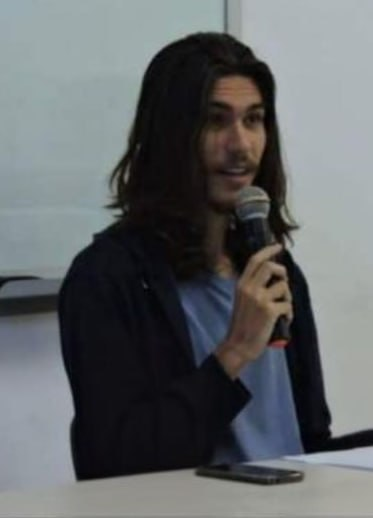
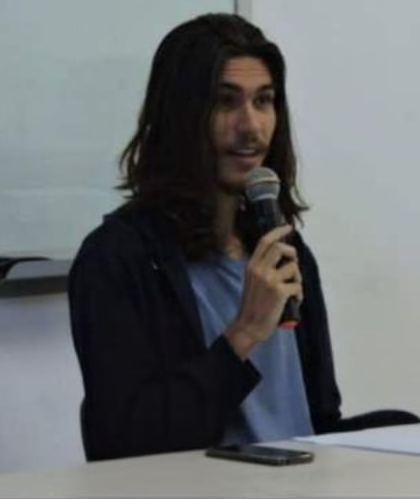
att detalhes

Changed region(s): [[0.0, 0.0, 1.0, 0.9619]]

diff --git a/pt/index.html b/pt/index.html
@@ -1,4 +1,5 @@
 <!doctype html>
+
 <html lang="pt-BR">
 <head>
   <meta charset="utf-8">
@@ -32,82 +33,111 @@
       </div>
     </header>
 
-    <main id="inicio">
-      <section class="hero" aria-labelledby="nome">
-        <img class="portrait" src="../assets/profile.jpg" alt="Leonardo Thibau apresentando em evento acadêmico">
-        <p class="eyebrow">SOCIOLOGIA · MÉTODOS DIGITAIS · UFBA</p>
-        <h1 id="nome">Leonardo Thibau</h1>
-        <p class="subtitle">Mestrando em Sociologia · pesquisador em Humanidades Digitais</p>
-        <div class="social" aria-label="Links profissionais">
-          <a href="https://lattes.cnpq.br/3404425891739700" target="_blank" rel="noopener">Lattes <span>↗</span></a>
-          <a href="https://github.com/l-thibau" target="_blank" rel="noopener">GitHub <span>↗</span></a>
-          <a href="https://l-thibau.quarto.pub/" target="_blank" rel="noopener">Slides <span>↗</span></a>
-          <a href="mailto:leonardo_thibau@hotmail.com">E-mail <span>↗</span></a>
-        </div>
-      </section>
 
-      <section id="sobre" class="section split">
-        <div><p class="section-label">01 — SOBRE</p><h2>Pesquisa sociológica orientada por dados, contexto e rigor metodológico.</h2></div>
-        <div class="prose">
-          <p>Sou mestrando em Sociologia na Universidade Federal da Bahia (UFBA), sob orientação do Prof. Leonardo Fernandes Nascimento. Minha dissertação investiga a machosfera brasileira a partir de um corpus longitudinal de fóruns masculinistas.</p>
-          <p>Minha trajetória combina Ciências Sociais, Humanidades e métodos digitais. Atuo no Laboratório de Humanidades Digitais da UFBA (LABHDUFBA), com experiência em construção e preservação de corpus, análise de dados textuais e de interação, visualização e infraestrutura de pesquisa.</p>
-          <dl class="facts">
-            <div><dt>Formação</dt><dd>Mestrado em andamento em Ciências Sociais · UFBA</dd></div>
-            <div><dt>Graduação</dt><dd>Ciências Sociais · UFBA; Bacharelado Interdisciplinar em Humanidades</dd></div>
-            <div><dt>Idiomas</dt><dd>Português e inglês</dd></div>
-          </dl>
-        </div>
-      </section>
+<main id="inicio">
+  <section class="hero" aria-labelledby="nome">
+    <img class="portrait" src="../assets/profile.jpg" alt="Leonardo Thibau apresentando em evento acadêmico">
+    <p class="eyebrow">SOCIOLOGIA · MÉTODOS DIGITAIS · UFBA</p>
+    <h1 id="nome">Leonardo Thibau</h1>
+    <p class="subtitle">Mestrando em Sociologia · pesquisador em Humanidades Digitais</p>
+    <div class="social" aria-label="Links profissionais">
+      <a href="https://lattes.cnpq.br/3404425891739700" target="_blank" rel="noopener">Lattes <span>↗</span></a>
+      <a href="https://github.com/l-thibau" target="_blank" rel="noopener">GitHub <span>↗</span></a>
+      <a href="https://l-thibau.quarto.pub/" target="_blank" rel="noopener">Slides <span>↗</span></a>
+      <a href="mailto:leonardo_thibau@hotmail.com">E-mail <span>↗</span></a>
+    </div>
+  </section>
 
-      <section id="pesquisa" class="section">
-        <p class="section-label">02 — PESQUISA</p>
-        <h2>Linhas de investigação</h2>
-        <div class="cards">
-          <article><span>01</span><h3>Machosfera e masculinidades digitais</h3><p>Estudo longitudinal de comunidades masculinistas, seus repertórios, formas de pertencimento, critérios de autoridade e transformações discursivas.</p></article>
-          <article><span>02</span><h3>Desinformação, política e plataformas</h3><p>Pesquisa sobre ecossistemas digitais, extremismo, circulação de narrativas e os vínculos entre infraestrutura, mediação e vida pública.</p></article>
-          <article><span>03</span><h3>Métodos digitais e conhecimento</h3><p>Construção de corpus, web scraping, análise computacional de texto, redes, visualização e práticas de pesquisa reprodutíveis.</p></article>
-        </div>
-      </section>
+  <section id="sobre" class="section split">
+    <div><p class="section-label">01 — SOBRE</p><h2>Pesquisa sociológica orientada por dados, contexto e rigor metodológico.</h2></div>
+    <div class="prose">
+      <p>Sou mestrando em Sociologia na Universidade Federal da Bahia (UFBA). Minha dissertação investiga a machosfera brasileira a partir de um corpus longitudinal de fóruns públicos masculinistas.</p>
+      <p>Minha trajetória combina Ciências Sociais, Humanidades e métodos digitais. Atuo no Laboratório de Humanidades Digitais da UFBA (LABHDUFBA), com experiência em construção e preservação de corpus, análise de dados textuais e de interação, visualização e infraestrutura de pesquisa.</p>
+      <dl class="facts">
+        <div><dt>Formação</dt><dd>Mestrado em andamento em Ciências Sociais · UFBA</dd></div>
+        <div><dt>Graduação</dt><dd>Ciências Sociais · UFBA; Bacharelado Interdisciplinar em Humanidades</dd></div>
+        <div><dt>Idiomas</dt><dd>Português e inglês</dd></div>
+      </dl>
+    </div>
+  </section>
 
-      <section class="section projects">
-        <p class="section-label">03 — PROJETOS E EXPERIÊNCIA</p>
-        <div class="project-list">
-          <article><p class="date">2025 — presente</p><div><h3>Redpills e a machosfera: o corpus digital do homem ressentido</h3><p>Dissertação de mestrado sobre a machosfera brasileira, articulando análise sociológica, corpus longitudinal e métodos computacionais.</p></div></article>
-          <article><p class="date">2023 — 2024</p><div><h3>Democracia digital: ecossistemas de desinformação no Telegram</h3><p>Pesquisa sobre grupos de extrema-direita, dinâmicas de usuários, links multiplataforma e análise socioantropológica de ambientes digitais.</p></div></article>
-          <article><p class="date">2024 — 2025</p><div><h3>LABHDUFBA · pesquisa e infraestrutura</h3><p>Atuação em Humanidades Digitais, pesquisa sobre desinformação em saúde e apoio à construção de ferramentas, sites e fluxos de dados.</p></div></article>
-        </div>
-      </section>
+  <section id="pesquisa" class="section">
+    <p class="section-label">02 — PESQUISA</p>
+    <h2>Linhas de investigação</h2>
+    <div class="cards">
+      <article><span>01</span><h3>Estudos de Gênero e Machosfera</h3><p>Estudo longitudinal de comunidades masculinistas, seus repertórios, formas de pertencimento, critérios de autoridade e transformações discursivas.</p></article>
+      <article><span>02</span><h3>Sociologia do conhecimento, mis/disinformation e Ciência Política</h3><p>Pesquisa sobre ecossistemas digitais, extremismo, circulação de narrativas e os vínculos entre infraestrutura, mediação e vida pública.</p></article>
+      <article><span>03</span><h3>STS e Métodos Digitais</h3><p>Construção de corpus, web scraping, análise computacional de texto, redes, visualização e práticas de pesquisa reprodutíveis, alinhadas ao pensamento crítico sociológico.</p></article>
+    </div>
+  </section>
 
-      <section id="producoes" class="section split">
-        <div><p class="section-label">04 — PRODUÇÕES</p><h2>Produções selecionadas</h2><p class="muted">Lista resumida a partir do Currículo Lattes público, atualizado em agosto de 2026.</p></div>
-        <div class="publications">
-          <article><p class="pub-meta">2026 · CASTAC Blog</p><h3>Cartographing the Brazilian Manosphere: Toponymic Aliases in a Public Forum</h3><p>MORAES, L. T. T.</p></article>
-          <article><p class="pub-meta">2025 · ANPOCS</p><h3>Visões computacionais da misoginia online: uso de IA para análise de imagens em chats do Telegram</h3><p>NOTHAFT, R. J.; NASCIMENTO, L. F.; MORAES, L. T. T.; WEDDERBURN, R. S. M.</p></article>
-          <article><p class="pub-meta">2025 · Congresso Brasileiro de Sociologia</p><h3>A machosfera no Brasil: uma análise multimodal da misoginia e radicalização no Telegram</h3><p>NASCIMENTO, L. F.; MOCELLIM, A. D.; MORAES, L. T. T.; BARRETO, T. B.</p></article>
-          <a class="text-link" href="https://lattes.cnpq.br/3404425891739700" target="_blank" rel="noopener">Ver currículo e produções completas no Lattes ↗</a>
-        </div>
-      </section>
+  <section class="section projects">
+    <p class="section-label">03 — PROJETOS E EXPERIÊNCIA</p>
+    <div class="project-list">
+      <article><p class="date">2025 — presente</p><div><h3>Redpills e a machosfera: o corpus digital do homem ressentido</h3><p>Dissertação de mestrado sobre a machosfera brasileira, articulando análise sociológica, corpus longitudinal e métodos computacionais.</p></div></article>
+      <article><p class="date">2023 — 2024</p><div><h3>Democracia digital: ecossistemas de desinformação no Telegram</h3><p>Pesquisa sobre grupos de extrema-direita, dinâmicas de usuários, ecossistema multiplataforma e análise socioantropológica de ambientes digitais.</p></div></article>
+      <article><p class="date">2024 — 2025</p><div><h3>Ecossistemas multiplataforma e ataques à integridade da informação em saúde: impactos, padrões de disseminação e estratégias de mitigação</h3><p>Atuação em Humanidades Digitais, com pesquisa sobre desinformação em saúde e apoio à construção de ferramentas, sites e análise de fluxos de dados.</p></div></article>
+    </div>
+  </section>
 
-      <section id="competencias" class="section">
-        <p class="section-label">05 — MÉTODOS E FERRAMENTAS</p>
-        <h2>Competências técnicas</h2>
-        <div class="skills">
-          <div><h3>Análise e dados</h3><p>R · análise de texto · análise de redes · web scraping · dados longitudinais · visualização</p></div>
-          <div><h3>Pesquisa reprodutível</h3><p>Markdown · Quarto · Zotero · documentação · preservação de corpus</p></div>
-          <div><h3>Infraestrutura e web</h3><p>Elasticsearch · Docker · HTML · Hugo · GitHub Pages · Visual Studio Code</p></div>
-        </div>
-        <p class="repository-note">Projetos e materiais técnicos: <a href="https://github.com/l-thibau" target="_blank" rel="noopener">github.com/l-thibau ↗</a></p>
-      </section>
+  <section id="producoes" class="section split">
+    <div>
+      <p class="section-label">04 — PRODUÇÕES</p>
+      <h2>Produções selecionadas</h2>
+      <p class="muted">Lista resumida a partir do Currículo Lattes público, atualizado em agosto de 2026.</p>
+    </div>
 
-      <section id="contato" class="section contact">
-        <p class="section-label">06 — CONTATO</p>
-        <h2>Colaborações, pesquisa e métodos digitais.</h2>
-        <p>Para contato acadêmico, oportunidades de pesquisa ou materiais de apresentação:</p>
-        <a class="email" href="mailto:leonardo_thibau@hotmail.com">leonardo_thibau@hotmail.com</a>
-      </section>
-    </main>
+    <div class="publications">
+      <article>
+        <p class="pub-meta">2026 · CASTAC Blog</p>
+        <h3>Cartographing the Brazilian Manosphere: Toponymic Aliases in a Public Forum</h3>
+        <p>MORAES, L. T. T.</p>
+        <a class="text-link" href="https://blog.castac.org/2026/06/brazilian-manosphere/" target="_blank" rel="noopener">Ver publicação ↗</a>
+      </article>
 
-    <footer><span>© 2026 Leonardo Thibau</span><span>Site estático · GitHub Pages</span><span><a href="https://creativecommons.org/licenses/by-nc/4.0/" target="_blank" rel="noopener">CC BY-NC 4.0 ↗</a></span></footer>
+      <article>
+        <p class="pub-meta">2025 · ANPOCS</p>
+        <h3>Visões computacionais da misoginia online: uso de IA para análise de imagens em chats do Telegram</h3>
+        <p>NOTHAFT, R. J.; NASCIMENTO, L. F.; MORAES, L. T. T.; WEDDERBURN, R. S.</p>
+      </article>
+
+      <article>
+        <p class="pub-meta">2025 · Congresso Brasileiro de Sociologia</p>
+        <h3>A machosfera no Brasil: uma análise multimodal da misoginia e radicalização no Telegram</h3>
+        <p>NASCIMENTO, L. F.; MOCELLIM, A. D.; MORAES, L. T. T.; BARRETO, T. B.</p>
+      </article>
+
+      <a class="text-link" href="https://lattes.cnpq.br/3404425891739700" target="_blank" rel="noopener">
+        Ver currículo e produções completas no Lattes ↗
+      </a>
+    </div>
+  </section>
+
+  <section id="competencias" class="section">
+    <p class="section-label">05 — MÉTODOS E FERRAMENTAS</p>
+    <h2>Competências técnicas</h2>
+    <div class="skills">
+      <div><h3>Análise e dados</h3><p>R · análise de texto · análise de redes · web scraping · dados longitudinais</p></div>
+      <div><h3>Métodos de Pesquisa</h3><p>Organização de pesquisa com uso de agentes de IA · LLMs · automação de fluxos de trabalho · pesquisa assistida por IA</p></div>
+      <div><h3>Infraestrutura e web</h3><p>Elasticsearch · ATLAS.TI · Docker · HTML · Visual Studio Code</p></div>
+    </div>
+    <p class="repository-note">Projetos e materiais técnicos: <a href="https://github.com/l-thibau" target="_blank" rel="noopener">github.com/l-thibau ↗</a></p>
+  </section>
+
+  <section id="contato" class="section contact">
+    <p class="section-label">06 — CONTATO</p>
+    <h2>Colaborações, pesquisa e métodos digitais.</h2>
+    <p>Para contato acadêmico, oportunidades de pesquisa ou materiais de apresentação:</p>
+    <a class="email" href="mailto:leonardo_thibau@hotmail.com">leonardo_thibau@hotmail.com</a>
+  </section>
+</main>
+
+<footer>
+  <span>© 2026 Leonardo Thibau</span>
+  <span>Site estático · GitHub Pages</span>
+  <span><a href="https://creativecommons.org/licenses/by-nc/4.0/" target="_blank" rel="noopener">CC BY-NC 4.0 ↗</a></span>
+</footer>
+
   </div>
 </body>
 </html>

diff --git a/styles.css b/styles.css
@@ -1,3 +1,3 @@
-:root{--ink:#141414;--paper:#f8f7f2;--card:#ffffff;--rule:#d8d6ce;--muted:#62615d;--accent:#9d2d24;--max:1120px}*{box-sizing:border-box}html{scroll-behavior:smooth}body{margin:0;background:var(--paper);color:var(--ink);font-family:Georgia,'Times New Roman',serif;font-size:18px;line-height:1.62}.shell{max-width:var(--max);margin:auto;padding:0 32px}.site-header{min-height:86px;border-bottom:1px solid var(--rule);display:flex;align-items:center;justify-content:space-between;gap:26px;font-family:ui-monospace,SFMono-Regular,Consolas,monospace;font-size:13px}.wordmark{color:var(--ink);text-decoration:none;font-weight:700;letter-spacing:-.03em;white-space:nowrap}.prompt{color:var(--accent);margin-right:7px}.cursor{display:inline-block;width:7px;height:15px;background:var(--accent);vertical-align:-2px;margin-left:5px;animation:blink 1.2s steps(1,end) infinite}@keyframes blink{50%{opacity:0}}nav{display:flex;gap:17px;flex-wrap:wrap;justify-content:flex-end}nav a,footer a,.text-link,.repository-note a{color:var(--ink);text-decoration:none;border-bottom:1px solid transparent}nav a:hover,footer a:hover,.text-link:hover,.repository-note a:hover{border-color:var(--accent);color:var(--accent)}.hero{text-align:center;padding:86px 0 96px;border-bottom:1px solid var(--rule)}.portrait{width:168px;height:168px;border-radius:50%;object-fit:cover;object-position:center top;filter:grayscale(100%) contrast(1.06);border:6px solid #eceae3;box-shadow:0 0 0 1px #c7c4ba}.eyebrow,.section-label,.pub-meta,.date{font-family:ui-monospace,SFMono-Regular,Consolas,monospace;font-size:12px;letter-spacing:.09em;color:var(--accent);font-weight:700}.hero h1{font-size:clamp(44px,7vw,74px);line-height:1.05;margin:22px 0 9px;letter-spacing:-.055em}.subtitle{color:var(--muted);margin:0;font-size:21px}.social{margin-top:25px;display:flex;justify-content:center;gap:16px;flex-wrap:wrap;font-family:ui-monospace,SFMono-Regular,Consolas,monospace;font-size:13px}.social a{color:var(--ink);text-decoration:none;padding:4px 0;border-bottom:1px solid var(--rule)}.social a:hover{color:var(--accent);border-color:var(--accent)}.social span{color:var(--accent)}.section{padding:78px 0;border-bottom:1px solid var(--rule)}.split{display:grid;grid-template-columns:minmax(240px,.76fr) minmax(0,1.24fr);gap:72px}.section h2{font-size:clamp(30px,4vw,47px);line-height:1.12;letter-spacing:-.04em;margin:8px 0 20px}.prose p{margin:0 0 20px}.facts{border-top:1px solid var(--rule);margin:30px 0 0}.facts div{display:grid;grid-template-columns:130px 1fr;gap:15px;padding:12px 0;border-bottom:1px solid var(--rule);font-size:15px}.facts dt{font-family:ui-monospace,SFMono-Regular,Consolas,monospace;font-size:11px;text-transform:uppercase;letter-spacing:.06em;color:var(--muted);font-weight:700}.facts dd{margin:0}.cards{display:grid;grid-template-columns:repeat(3,1fr);gap:18px;margin-top:32px}.cards article{background:var(--card);border:1px solid var(--rule);padding:25px;min-height:252px}.cards span{font-family:ui-monospace,SFMono-Regular,Consolas,monospace;font-size:12px;color:var(--accent)}h3{font-size:22px;line-height:1.2;letter-spacing:-.025em;margin:15px 0 12px}.cards p,.project-list p,.publications p,.skills p,.muted{font-size:16px;color:var(--muted)}.project-list{margin-top:26px;border-top:1px solid var(--rule)}.project-list article{display:grid;grid-template-columns:160px 1fr;gap:24px;padding:22px 0;border-bottom:1px solid var(--rule)}.project-list .date{margin:4px 0}.project-list h3{margin:0 0 9px}.project-list p{margin:0}.publications{border-top:1px solid var(--rule)}.publications article{padding:19px 0;border-bottom:1px solid var(--rule)}.pub-meta{margin:0}.publications h3{margin:8px 0;font-size:20px}.publications p{margin:0}.text-link{display:inline-block;margin-top:24px;font-family:ui-monospace,SFMono-Regular,Consolas,monospace;font-size:13px}.skills{display:grid;grid-template-columns:repeat(3,1fr);border-top:1px solid var(--rule);margin-top:30px}.skills div{padding:20px 24px 20px 0;border-bottom:1px solid var(--rule)}.skills div+div{padding-left:24px;border-left:1px solid var(--rule)}.skills h3{font-size:20px;margin:0 0 9px}.skills p{margin:0}.repository-note{margin:25px 0 0}.contact{padding-bottom:100px}.contact h2{max-width:650px}.contact p{color:var(--muted)}.email{font-size:clamp(21px,3vw,34px);color:var(--accent);text-decoration:none;border-bottom:1px solid var(--accent);line-height:1.1}footer{font-family:ui-monospace,SFMono-Regular,Consolas,monospace;font-size:11px;color:var(--muted);display:flex;justify-content:space-between;gap:15px;padding:25px 0 30px;flex-wrap:wrap}@media(max-width:760px){.shell{padding:0 20px}.site-header{padding:17px 0;align-items:flex-start;flex-direction:column}.hero{padding:65px 0}.split{grid-template-columns:1fr;gap:20px}.cards,.skills{grid-template-columns:1fr}.skills div+div{padding-left:0;border-left:0}.project-list article{grid-template-columns:1fr;gap:0}.facts div{grid-template-columns:1fr;gap:3px}.section{padding:58px 0}nav{gap:12px}.portrait{width:142px;height:142px}}
+:root{--ink:#141414;--paper:#f8f7f2;--card:#ffffff;--rule:#d8d6ce;--muted:#62615d;--accent:#9d2d24;--max:1120px}*{box-sizing:border-box}html{scroll-behavior:smooth}body{margin:0;background:var(--paper);color:var(--ink);font-family:Georgia,'Times New Roman',serif;font-size:18px;line-height:1.62}.shell{max-width:var(--max);margin:auto;padding:0 32px}.site-header{min-height:86px;border-bottom:1px solid var(--rule);display:flex;align-items:center;justify-content:space-between;gap:26px;font-family:ui-monospace,SFMono-Regular,Consolas,monospace;font-size:13px}.wordmark{color:var(--ink);text-decoration:none;font-weight:700;letter-spacing:-.03em;white-space:nowrap}.prompt{color:var(--accent);margin-right:7px}.cursor{display:inline-block;width:7px;height:15px;background:var(--accent);vertical-align:-2px;margin-left:5px;animation:blink 1.2s steps(1,end) infinite}@keyframes blink{50%{opacity:0}}nav{display:flex;gap:17px;flex-wrap:wrap;justify-content:flex-end}nav a,footer a,.text-link,.repository-note a{color:var(--ink);text-decoration:none;border-bottom:1px solid transparent}nav a:hover,footer a:hover,.text-link:hover,.repository-note a:hover{border-color:var(--accent);color:var(--accent)}.hero{text-align:center;padding:86px 0 96px;border-bottom:1px solid var(--rule)}.portrait{width:168px;height:168px;border-radius:50%;object-fit:cover;object-position:center top;filter:grayscale(100%) contrast(1.06);border:6px solid #eceae3;box-shadow:0 0 0 1px #c7c4ba}.eyebrow,.section-label,.pub-meta,.date{font-family:ui-monospace,SFMono-Regular,Consolas,monospace;font-size:12px;letter-spacing:.09em;color:var(--accent);font-weight:700}.hero h1{font-size:clamp(44px,7vw,74px);line-height:1.05;margin:22px 0 9px;letter-spacing:-.055em}.subtitle{color:var(--muted);margin:0;font-size:21px}.social{margin-top:25px;display:flex;justify-content:center;gap:16px;flex-wrap:wrap;font-family:ui-monospace,SFMono-Regular,Consolas,monospace;font-size:13px}.social a{color:var(--ink);text-decoration:none;padding:4px 0;border-bottom:1px solid var(--rule)}.social a:hover{color:var(--accent);border-color:var(--accent)}.social span{color:var(--accent)}.section{padding:78px 0;border-bottom:1px solid var(--rule)}.split{display:grid;grid-template-columns:minmax(240px,.76fr) minmax(0,1.24fr);gap:72px}.section h2{font-size:clamp(30px,4vw,47px);line-height:1.12;letter-spacing:-.04em;margin:8px 0 20px}.prose p{margin:0 0 20px}.facts{border-top:1px solid var(--rule);margin:30px 0 0}.facts div{display:grid;grid-template-columns:130px 1fr;gap:15px;padding:12px 0;border-bottom:1px solid var(--rule);font-size:15px}.facts dt{font-family:ui-monospace,SFMono-Regular,Consolas,monospace;font-size:11px;text-transform:uppercase;letter-spacing:.06em;color:var(--muted);font-weight:700}.facts dd{margin:0}.cards{display:grid;grid-template-columns:repeat(3,1fr);gap:18px;margin-top:32px}.cards article{background:var(--card);border:1px solid var(--rule);padding:25px;min-height:252px}.cards span{font-family:ui-monospace,SFMono-Regular,Consolas,monospace;font-size:12px;color:var(--accent)}h3{font-size:22px;line-height:1.2;letter-spacing:-.025em;margin:15px 0 12px}.cards p,.project-list p,.publications p,.skills p,.muted{font-size:16px;color:var(--muted)}.project-list{margin-top:26px;border-top:1px solid var(--rule)}.project-list article{display:grid;grid-template-columns:160px 1fr;gap:24px;padding:22px 0;border-bottom:1px solid var(--rule)}.project-list .date{margin:4px 0}.project-list h3{margin:0 0 9px}.project-list p{margin:0}.publications{border-top:1px solid var(--rule)}.publications article{padding:19px 0;border-bottom:1px solid var(--rule)}.pub-meta{margin:0}.publications h3{margin:8px 0;font-size:20px}.publications p{margin:0}.text-link{display:inline-block;margin-top:24px;font-family:ui-monospace,SFMono-Regular,Consolas,monospace;font-size:13px}.skills{display:grid;grid-template-columns:repeat(3,1fr);border-top:1px solid var(--rule);margin-top:30px}.skills div{padding:20px 24px 20px 0;border-bottom:1px solid var(--rule)}.skills div+div{padding-left:24px;border-left:1px solid var(--rule)}.skills h3{font-size:20px;margin:0 0 9px}.skills p{margin:0}.repository-note{margin:25px 0 0}.contact{padding-bottom:100px}.contact h2{max-width:650px}.contact p{color:var(--muted)}.email{font-size:clamp(19px,2.2vw,26px);color:var(--accent);text-decoration:none;border-bottom:1px solid var(--accent);line-height:1.1}footer{font-family:ui-monospace,SFMono-Regular,Consolas,monospace;font-size:11px;color:var(--muted);display:flex;justify-content:space-between;gap:15px;padding:25px 0 30px;flex-wrap:wrap}@media(max-width:760px){.shell{padding:0 20px}.site-header{padding:17px 0;align-items:flex-start;flex-direction:column}.hero{padding:65px 0}.split{grid-template-columns:1fr;gap:20px}.cards,.skills{grid-template-columns:1fr}.skills div+div{padding-left:0;border-left:0}.project-list article{grid-template-columns:1fr;gap:0}.facts div{grid-template-columns:1fr;gap:3px}.section{padding:58px 0}nav{gap:12px}.portrait{width:142px;height:142px}}
 
 .header-tools{display:flex;align-items:center;justify-content:flex-end;gap:17px}.lang-switch{display:flex;gap:6px;font-family:ui-monospace,SFMono-Regular,Consolas,monospace;font-size:11px;white-space:nowrap}.lang-switch a{color:var(--muted);text-decoration:none}.lang-switch a:hover,.lang-switch a.active{color:var(--accent);font-weight:700}@media(max-width:760px){.header-tools{width:100%;align-items:flex-start;justify-content:space-between;gap:12px}.lang-switch{padding-left:0;flex-shrink:0}nav{justify-content:flex-start}}
